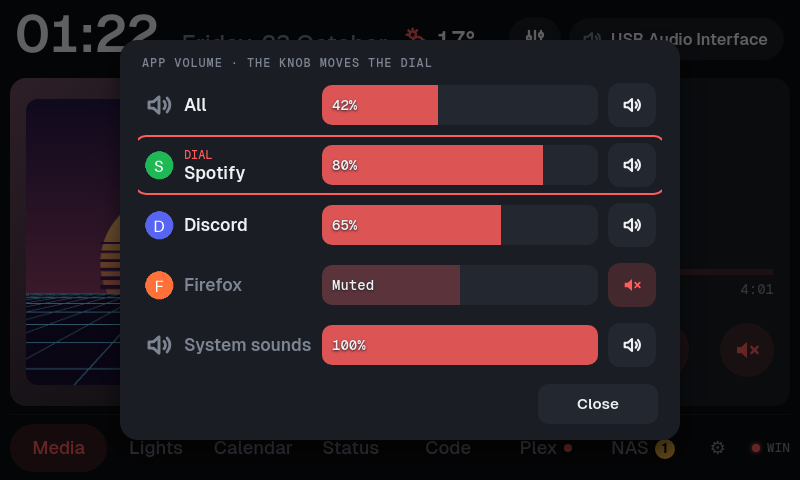
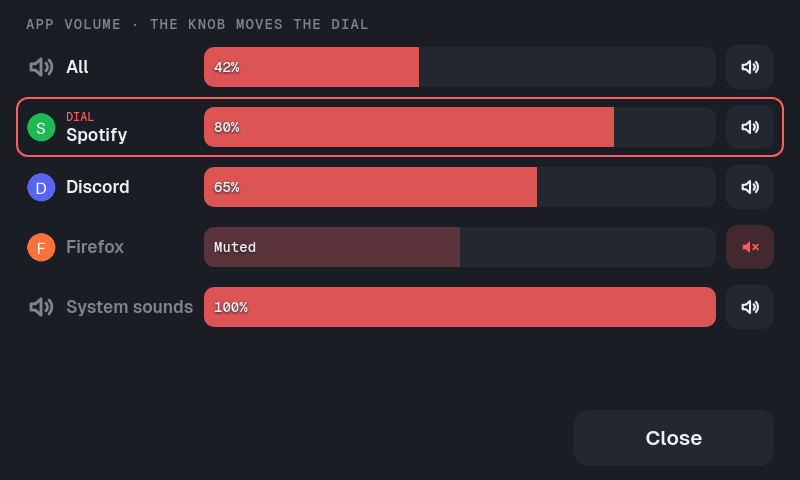
Retake the mixer screenshot full screen, and document it

diff --git a/README.md b/README.md
@@ -254,14 +254,13 @@ them to the Car Thing **over the USB cable** (`adb forward`; no network):
   - Linux: `pactl` (PipeWire or PulseAudio).
   - macOS: the volume always; switching devices needs `brew install switchaudio-osx`.
 - **App volume (Windows):** like the Volume Mixer or a Stream Deck volume dial. The
-  mixer button next to the output on the Media page opens a list: **All** (the system
-  volume) and each app playing through the output, with its icon, a bar to drag and a
-  mute button. In the **Volume** dial mode the dial turns the one marked *Dial*, All at
+  mixer button next to the output on the Media page opens it, full screen: **All** (the
+  system volume) and each app playing through the output, with its icon, a bar to drag and
+  a mute button. In the **Volume** dial mode the dial turns the one marked *Dial*, All at
   first, and pressing the knob moves it on to each app in the list and back to All
-  (tapping a name picks one too). The knob opens the mixer, from another page too (it goes
-  to Media first), and it closes again a few seconds after the dial's last use; turning
-  the system volume on All works on any page without moving you. Elsewhere than Windows,
-  or without the agent, the knob mutes as before.
+  (tapping a name picks one too). The knob opens the mixer over whatever page you're on,
+  and it closes again a few seconds after the dial's last use. Elsewhere than Windows, or
+  without the agent, the knob mutes as before.
 - **Clock:** the agent sets the Car Thing's clock and time zone (DST included).
   The time shows large with the date at the top of the live pages (Media, Lights,
   Calendar, Status, Code, Plex, NAS), and on the standby and lock

diff --git a/device/README.md b/device/README.md
@@ -524,9 +524,9 @@ moves the dial's target from All (`selected: null`) to each app, in the list's o
 (playing first), and back to All; `"up"` / `"down"` change the target's volume by 4;
 `"toggle"` mutes the target. On All, and without the agent's apps (not Windows, no agent),
 they are the volume keys and mute, so the default config's Volume mode uses them on turn
-and press everywhere. The knob, and turning an app, go to the page with `"audio": true`
-first (`HostMixer.shows`), and the UI opens the mixer (`mixer_dial` events, with `open`)
-and closes it again 6 s after the dial's last use; turning All moves nothing.
+and press everywhere. The knob, and turning an app, make the UI open the mixer full screen
+over the page on screen (`mixer_dial` events, with `open`) and close it again 6 s after
+the dial's last use; turning All only shows the usual volume bar.
 
 ## config.json
 
